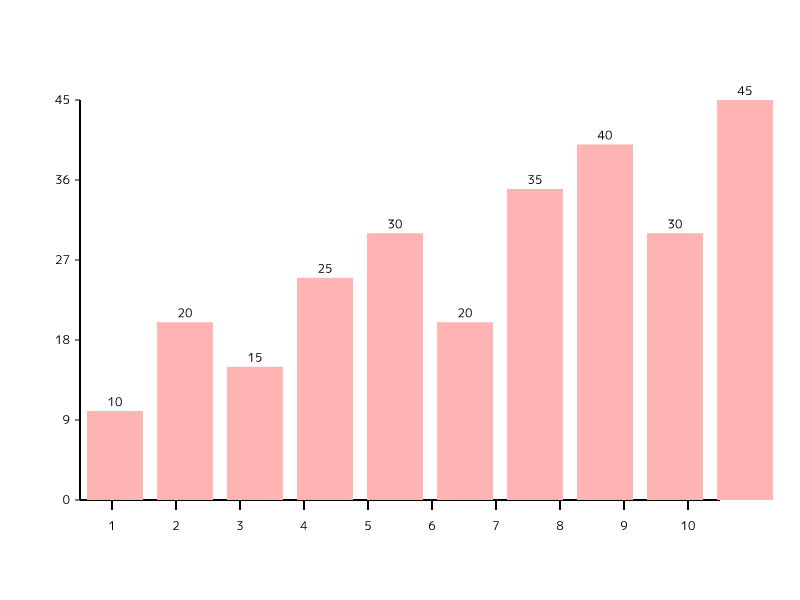
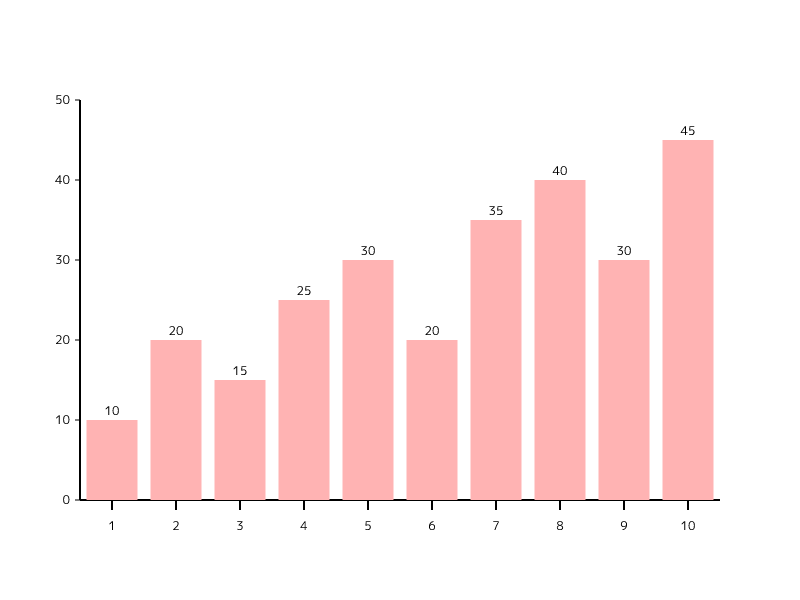
docs(readme): refresh sample charts from production (2025-09-16)

diff --git a/README.md b/README.md
@@ -6,6 +6,8 @@ This service can create line graphs, bar charts, scatter plots, and more using t
 
 ## 🎨 Output Examples
 
+Note: Sample images below were refreshed from the production deployment on 2025-09-16.
+
 ![Custom Chart Japanese Example](images/custom_chart_ja.png)
 
 ## ✨ Recent Improvements
